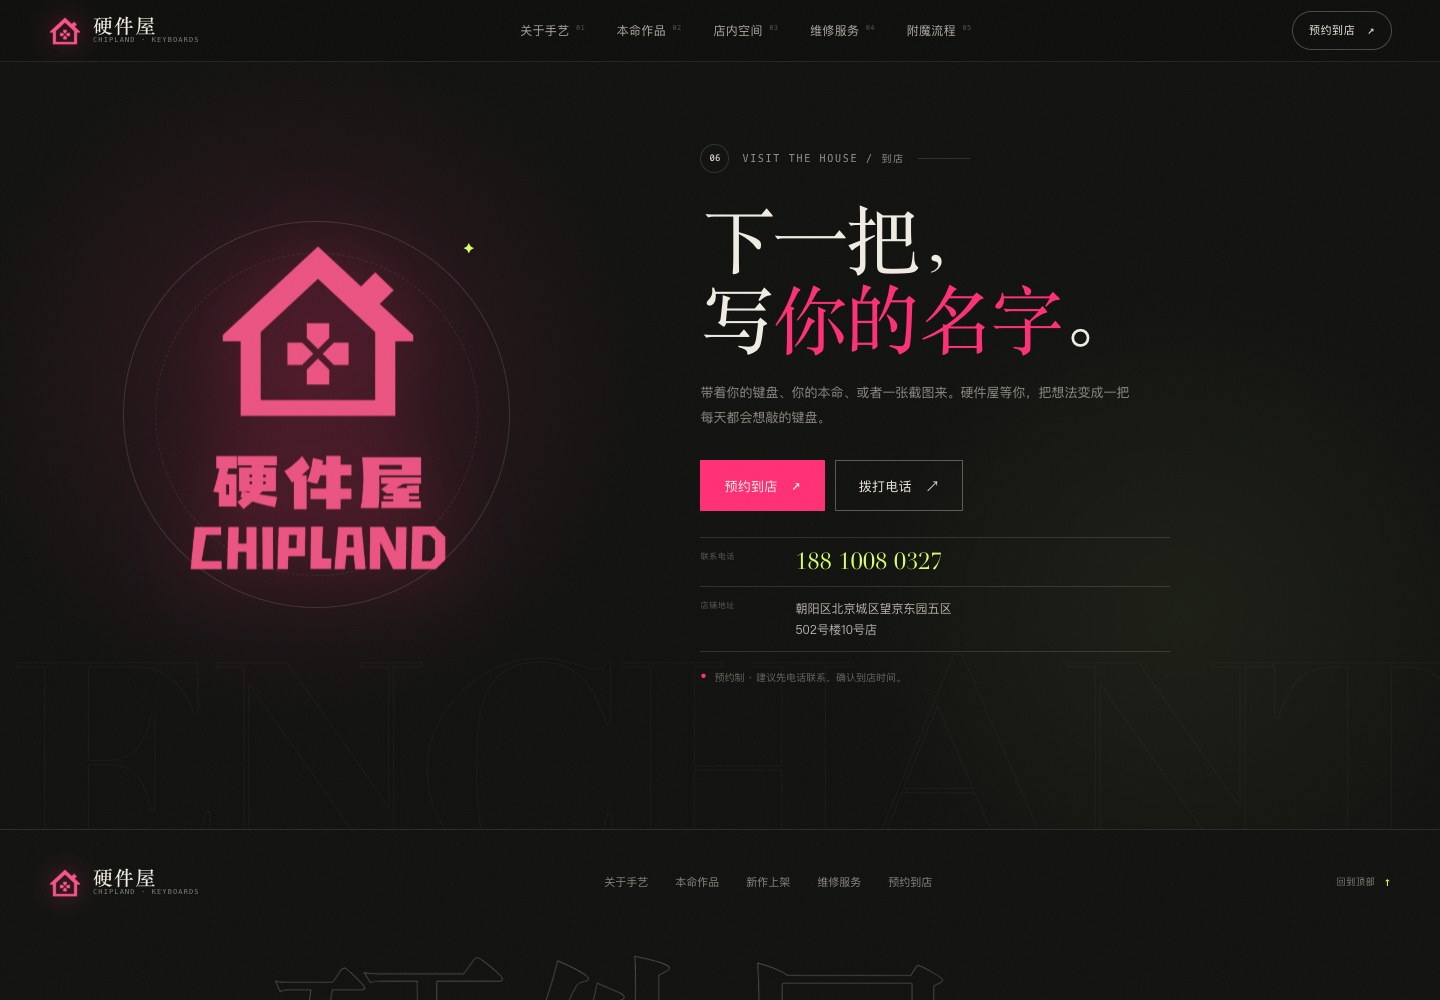
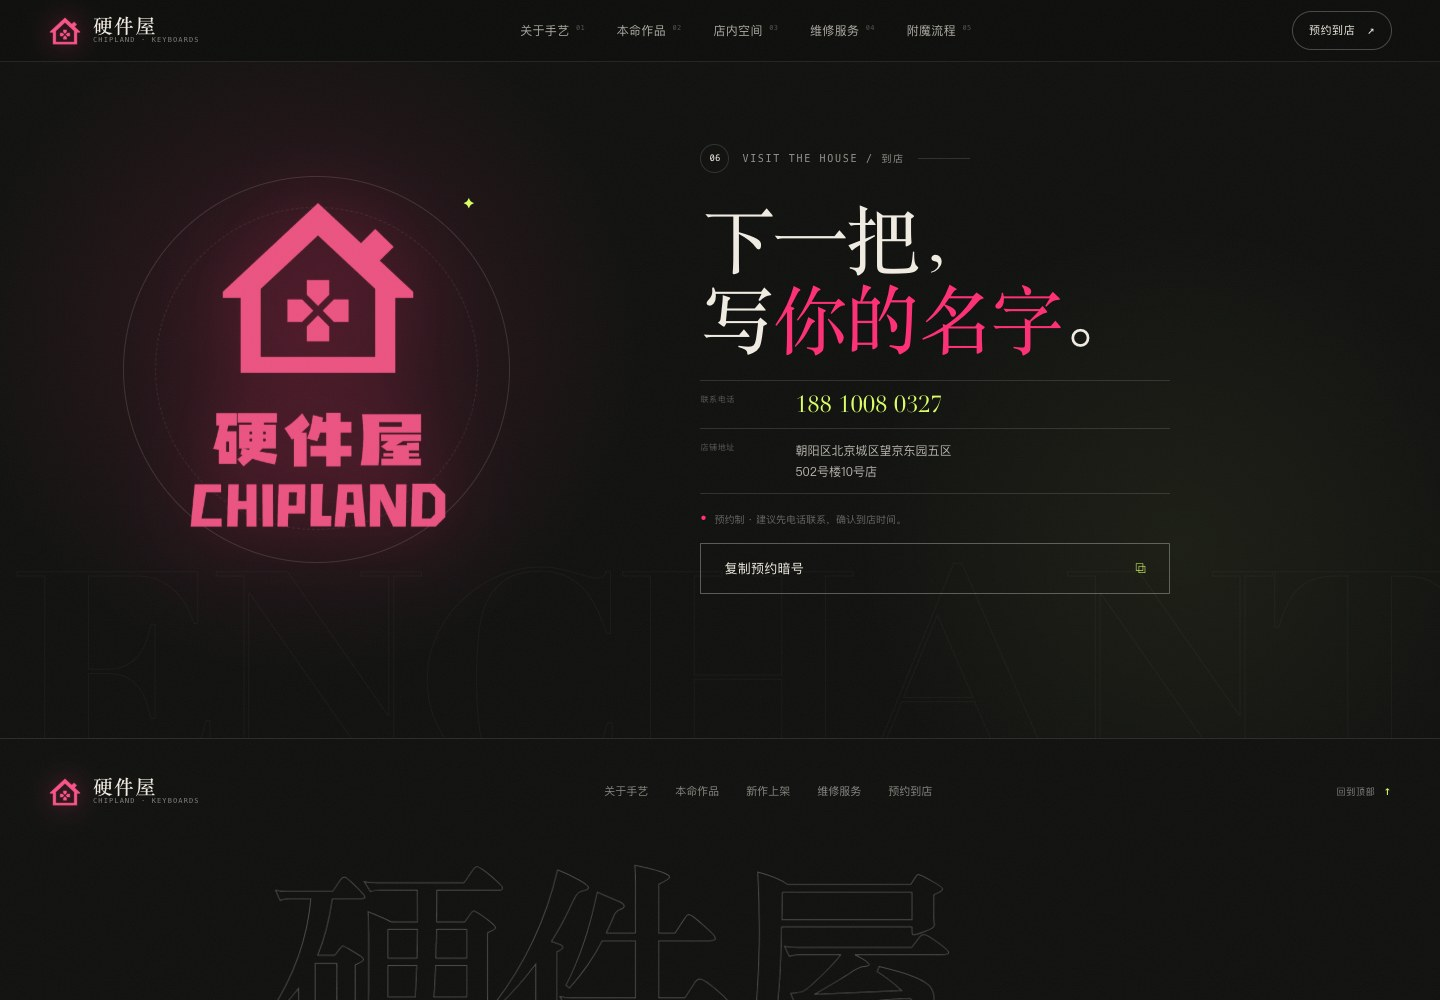
Simplify visit area to contact info and copy booking code

diff --git a/index.html b/index.html
@@ -556,12 +556,6 @@
         <div class="visit__copy" data-reveal style="--d:.1s">
           <p class="section-kicker section-kicker--light"><span class="num">06</span> Visit The House / 到店</p>
           <h2 class="display display--light">下一把，<br>写<em>你的名字</em>。</h2>
-          <p class="visit__text">带着你的键盘、你的本命、或者一张截图来。硬件屋等你，把想法变成一把每天都会想敲的键盘。</p>
-          <div class="visit__actions">
-            <a class="btn btn--primary" href="#visit" data-open-booking>预约到店 <span class="btn__arrow" aria-hidden="true">↗</span></a>
-            <a class="btn btn--ghost" href="tel:18810080327">拨打电话 <span aria-hidden="true">↗</span></a>
-          </div>
-
           <div class="visit__contact">
             <div class="visit__contact-row">
               <span>联系电话</span>
@@ -574,6 +568,8 @@
           </div>
 
           <p class="visit__note"><span aria-hidden="true">●</span> 预约制 · 建议先电话联系，确认到店时间。</p>
+
+          <button class="btn btn--ghost visit__copy-code" type="button" data-copy="你好，我想预约到硬件屋，聊聊键盘定制。请问最近方便到店吗？" data-copy-message="预约暗号已复制，发给店主就能对上暗号。">复制预约暗号 <span aria-hidden="true">⧉</span></button>
         </div>
       </div>
     </section>

diff --git a/assets/site.css b/assets/site.css
@@ -2230,23 +2230,9 @@ main section[id] {
   color: var(--pink);
 }
 
-.visit__text {
-  max-width: 430px;
-  color: rgba(241, 236, 226, 0.55);
-  font-size: 13px;
-  line-height: 1.95;
-}
-
-.visit__actions {
-  display: flex;
-  flex-wrap: wrap;
-  gap: 10px;
-  margin-top: 30px;
-}
-
 .visit__contact {
   max-width: 470px;
-  margin-top: 26px;
+  margin-top: 6px;
   border-top: 1px solid var(--line-light);
 }
 
@@ -2283,6 +2269,18 @@ main section[id] {
   color: rgba(241, 236, 226, 0.74);
   font-size: 12px;
   line-height: 1.75;
+}
+
+.visit__copy-code {
+  justify-content: space-between;
+  width: min(100%, 470px);
+  margin-top: 16px;
+}
+
+.visit__copy-code span {
+  color: var(--lime);
+  font-family: var(--mono);
+  font-size: 14px;
 }
 
 .visit__note {
@@ -3468,9 +3466,6 @@ main section[id] {
     font-size: clamp(2.9rem, 11.5vw, 4.6rem);
   }
 
-  .visit__actions .btn {
-    flex: 1 1 auto;
-  }
 
   .footer__top {
     padding-top: 27px;
@@ -3682,14 +3677,6 @@ main section[id] {
     display: none;
   }
 
-  .visit__actions {
-    display: grid;
-    grid-template-columns: 1fr;
-  }
-
-  .visit__actions .btn {
-    width: 100%;
-  }
 
   .visit__note {
     align-items: flex-start;

diff --git a/README.md b/README.md
@@ -21,7 +21,7 @@ python3 -m http.server 8000
 ├── index.html          # 页面内容与文案
 ├── assets/
 │   ├── site.css        # 全部样式与响应式布局
-│   ├── site.js         # 导航、滚动动效、预约弹窗、复制地址
+│   ├── site.js         # 导航、滚动动效、预约弹窗、复制地址/预约暗号
 │   └── img/            # 15 张作品/空间照片（jpg + webp）+ 店铺地图 + 4 个 logo 文件
 ├── preview.jpg         # 首屏预览图
 ├── preview-drops.jpg   # 新作上架区域预览图
@@ -43,6 +43,7 @@ python3 -m http.server 8000
 - 响应式布局：桌面 / 平板 / 手机（含 320px 小屏）
 - 本命作品陈列 + 新作上架（移动端可横向滑动）
 - 「预约到店」弹窗：电话、地址、地图、复制地址
+- 到店区域直接展示地址/电话，底部保留「复制预约暗号」
 - 已移除旧价目表页面
 - 品牌信息更新为「硬件屋 ChipLand · 北京」，使用店主提供的正式 logo 套件
 - 新增「维修服务」板块，使用维修专用 logo
